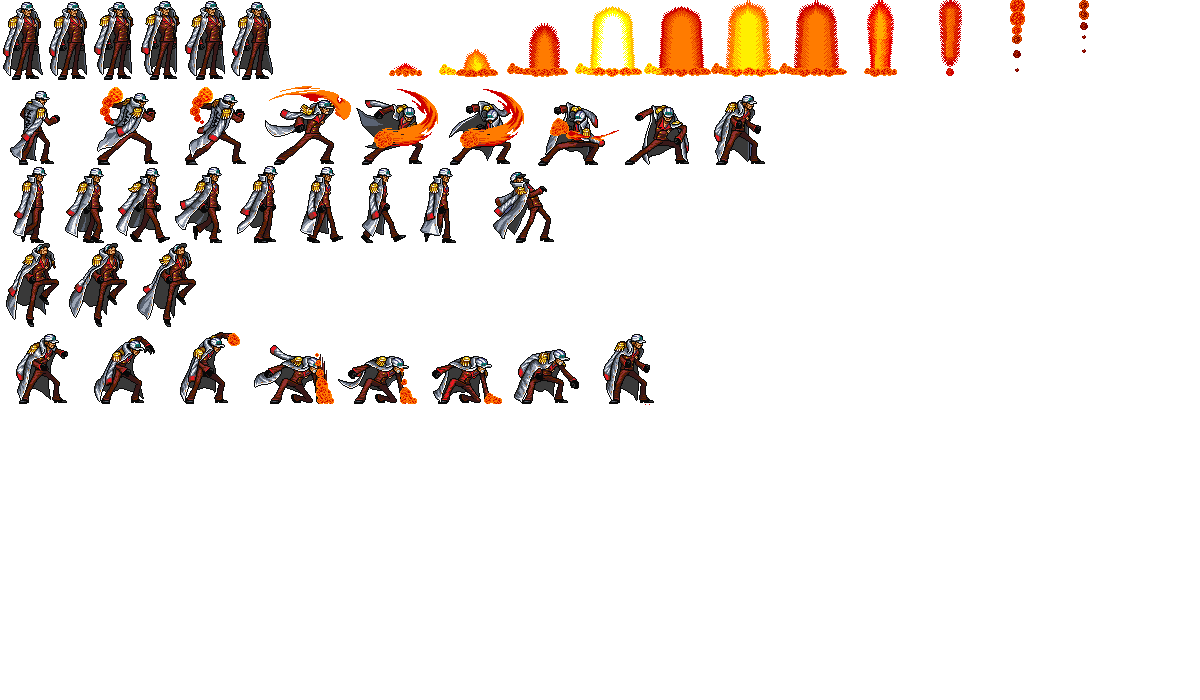
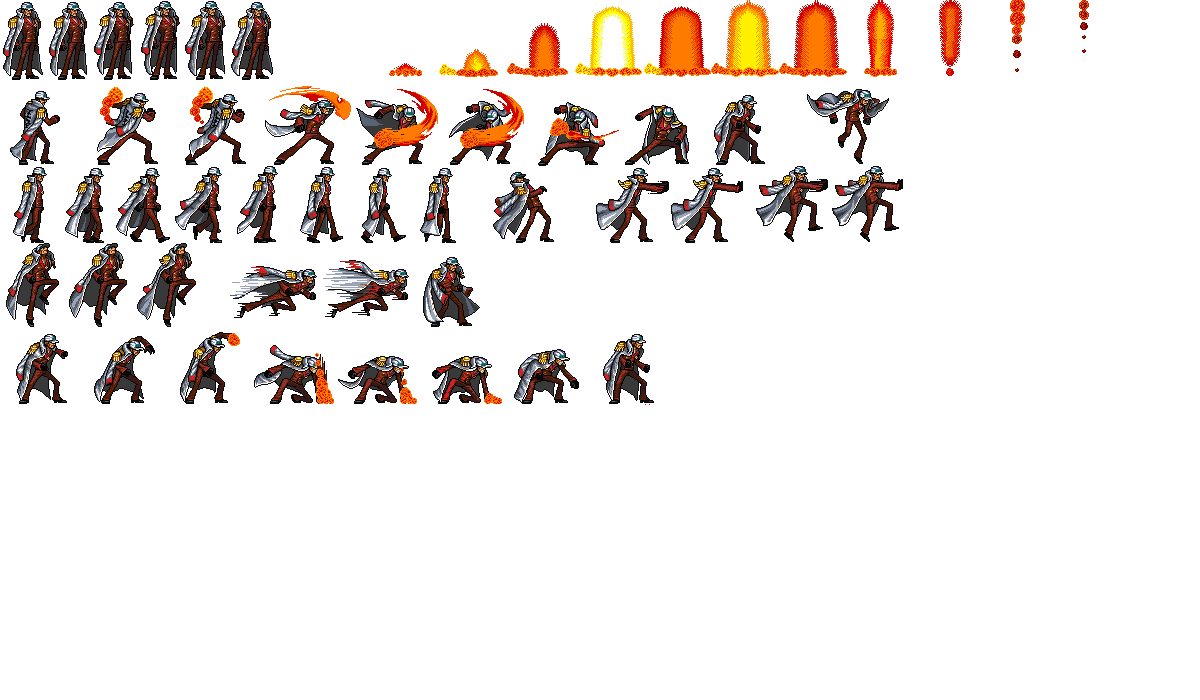
thêm hành động mới

Changed region(s): [[0.4933, 0.12, 0.7708, 0.36], [0.185, 0.36, 0.4008, 0.48]]

diff --git a/include/Const.h b/include/Const.h
@@ -53,7 +53,16 @@ constexpr const char* imageTilePath = "assets/imageTileMap.png";
 constexpr const char* tileMapPath = "assets/TileMap.txt";
 constexpr const char* collisionImgPath = "assets/collisionImage.png";
 
-const std::vector<const char*> MASKS = {
+constexpr const char* MUSIC_PATH = "assets/audio/background.mp3";
+
+const std::vector<const char*> SOUND_PAHTS =
+{
+	"assets/audio/hit.wav",
+	"assets/audio/step3.wav"
+};
+
+const std::vector<const char*> MASKS = 
+{
 	"assets/fight/p1.png",
 	"assets/fight/p2.png"
 };
@@ -66,13 +75,14 @@ const std::map<int, std::vector<int>> SASUKE = {
 	{ -1,				{4, 150, 0,  0, 48, 75, 0, 0} },		// idle
 	{ (int)SDLK_d,		{6, 110, 0, 75, 67, 75, 0, 0}},			// walk
 	{ (int)SDLK_w,		{3, 200, 0, 150, 56, 75, 0, 0}},		// jump
-	{ -2,				{1, 1, 0, 150, 56, 74, 0, 0} },
-	{ (int)SDLK_c,		{1, 1, 0, 224, 58, 71, 0, 0}},
-	{ (int)SDLK_k,		{1, 1, 0, 296, 58, 74, 0, 0}},
-	{ (int)SDLK_u,		{7, 180, 0, 371, 91, 75, 1, 20}},
-	{ (int)SDLK_r,		{8, 100, 0, 446, 60, 77, 0, 0}},
-	{ -3,				{7, 140, 242, 0, 86, 57, 1, 20} },
-	{ -4,				{3, 250, 450, 77, 57, 73, 0, 0} }
+	{ -2,				{1, 1, 0, 150, 56, 74, 0, 0} },			// fall
+	{ (int)SDLK_c,		{1, 1000, 0, 224, 58, 71, 0, 0}},			// thủ (đất)
+	{ (int)SDLK_q,		{1, 1, 0, 296, 58, 74, 0, 0}},			// thủ (trên không)
+	{ (int)SDLK_u,		{7, 180, 0, 371, 91, 75, 1, 20}},		// cận chiến
+	{ (int)SDLK_r,		{8, 100, 0, 446, 60, 77, 0, 0}},		// skill 1
+	{ -3,				{7, 140, 242, 0, 86, 57, 1, 20} },		// effect 1
+	{ -4,				{3, 250, 450, 77, 57, 73, 0, 0} },		// get damage
+	{ (int)SDLK_f,		{4, 200, 643, 83, 69, 67, 0, 0 } }
 };
 
 const std::map<int, std::vector<int>> AKAINU = {
@@ -83,5 +93,9 @@ const std::map<int, std::vector<int>> AKAINU = {
 		{(int)SDLK_w,	{3, 200, 0, 243, 68, 84, 0, 0}},
 		{(int)SDLK_r,	{8, 150, 0, 327, 84, 77, 0, 0}},
 		{-3,			{12, 140, 303, 0, 68, 78, 1, 20}},
-		{-4,			{1, 1000, 492, 169, 63, 74, 0, 0}}
+		{-4,			{1, 1000, 492, 169, 63, 74, 0, 0}},
+		{-2,			{1, 10, 806, 85, 84, 79, 0, 0}},
+		{(int)SDLK_c,	{2, 450, 595, 165, 75, 78, 0, 0}},
+		{(int)SDLK_q,	{2, 450, 753, 165, 76, 77, 0, 0}},
+		{(int)SDLK_f,	{3, 180, 227, 257, 92, 70, 0, 0}}
 };

diff --git a/include/GameObjects/Sasuke.cpp b/include/GameObjects/Sasuke.cpp
@@ -21,8 +21,6 @@ void Sasuke::update()
 	GameObject::update();
 	// cập nhật vị trí trên màn hình
 
-	//std::cout << transform->getXPos() << ' ' << transform->getYPos() << std::endl;
-
 	if (transform->getYPos() + rect->h >= (GROUND * Game::MAP_SCALE))
 	{
 		transform->setYpos((GROUND * Game::MAP_SCALE) - rect->h);
@@ -40,7 +38,6 @@ void Sasuke::update()
 		rect->x = transform->getXPos();
 		rect->y = transform->getYPos();
 	}
-
 	animation->update();
 
 	// cập nhật va chạm với hiệu ứng
@@ -88,6 +85,16 @@ void Sasuke::ADWSController()
 			animation->setState((int)SDLK_u);
 			animation->setFinished(false);
 			break;
+		case SDLK_c:
+			transform->setVx(0);
+			animation->setState((attrib->onGround) ? (int)SDLK_c : (int)SDLK_q);
+			animation->setFinished(false);
+			break;
+		case SDLK_f:
+			transform->setVx(5 * sprite->getROL());
+			animation->setState((int)SDLK_f);
+			animation->setFinished(false);
+			break;
 		default:
 			break;
 		}
@@ -127,6 +134,16 @@ void Sasuke::LRUDController()
 		case SDLK_k:
 			transform->setVx(0);
 			animation->setState((int)SDLK_u);
+			animation->setFinished(false);
+			break;
+		case SDLK_l:
+			transform->setVx(0);
+			animation->setState((attrib->onGround) ? (int)SDLK_c : (int)SDLK_q);
+			animation->setFinished(false);
+			break;
+		case SDLK_RCTRL:
+			transform->setVx(5 * sprite->getROL());
+			animation->setState((int)SDLK_f);
 			animation->setFinished(false);
 			break;
 		default:

diff --git a/include/GameObjects/Akainu.cpp b/include/GameObjects/Akainu.cpp
@@ -86,6 +86,16 @@ void Akainu::ADWSController()
 			animation->setState((int)SDLK_u);
 			animation->setFinished(false);
 			break;
+		case SDLK_c:
+			transform->setVx(0);
+			animation->setState((attrib->onGround) ? (int)SDLK_c : (int)SDLK_q);
+			animation->setFinished(false);
+			break;
+		case SDLK_f:
+			transform->setVx(5 * sprite->getROL());
+			animation->setState((int)SDLK_f);
+			animation->setFinished(false);
+			break;
 		default:
 			break;
 		}
@@ -125,6 +135,16 @@ void Akainu::LRUDController()
 		case SDLK_k:
 			transform->setVx(0);
 			animation->setState((int)SDLK_u);
+			animation->setFinished(false);
+			break;
+		case SDLK_l:
+			transform->setVx(0);
+			animation->setState((attrib->onGround) ? (int)SDLK_c : (int)SDLK_q);
+			animation->setFinished(false);
+			break;
+		case SDLK_RCTRL:
+			transform->setVx(5 * sprite->getROL());
+			animation->setState((int)SDLK_f);
 			animation->setFinished(false);
 			break;
 		default:

diff --git a/include/Components/Animation.h b/include/Components/Animation.h
@@ -14,7 +14,7 @@ public:
 	
 	/*
 	* Tùy chỉnh trạng thái
-	* @param int trạng thái(key) có trong map dữ liệu hành động
+	* @param s trạng thái(key) có trong map dữ liệu hành động
 	*/
 	void setState(int s);
 	
@@ -26,13 +26,13 @@ public:
 	
 	/*
 	* Tùy chỉnh kết thúc hành động
-	* @param bool true nếu đặt hành động kết thúc
+	* @param b true nếu đặt hành động kết thúc
 	*/
 	void setFinished(bool b);
 
 	/*
 	* Lấy thông tin hiệu ứng
-	* @param int key trong map dữ liệu hành động
+	* @param key key trong map dữ liệu hành động
 	* @return 1 vector chứa thông tin để khởi tạo hiệu ứng
 	*/
 	std::vector<int> getEffectInfor(int key);

diff --git a/include/Components/Animation.cpp b/include/Components/Animation.cpp
@@ -57,7 +57,10 @@ void Animation::update()
 		attrib->isHitting = false;
 		animFinished = false;
 	}
-
+	else if (!attrib->onGround && animFinished)
+	{
+		this->setState(-2);
+	}
 	Uint32 now = SDL_GetTicks();
 	if (now - lastUpdate > speed) {
 		currentFrame++;

diff --git a/include/GameObjects/GameObject.cpp b/include/GameObjects/GameObject.cpp
@@ -28,6 +28,7 @@ void GameObject::update()
 {
 	transform->update();
 	sprite->update();
+	attrib->onGround = (transform->getYPos() + rect->h >= GROUND * Game::MAP_SCALE);
 }
 void GameObject::draw()
 {
